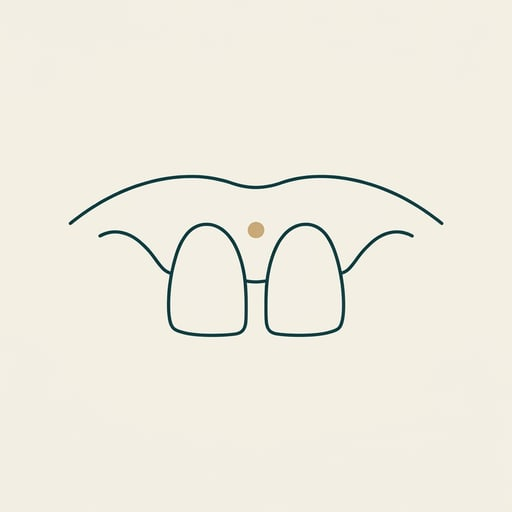
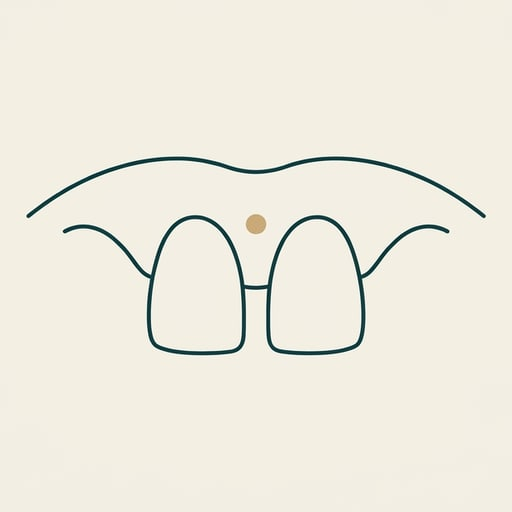
Treatments: larger card illustrations (96px desktop, 56px phone), tighter crop, blended into the card

diff --git a/src/components/TreatmentPage.tsx b/src/components/TreatmentPage.tsx
@@ -304,11 +304,11 @@ export default function TreatmentPage({
           {candidates.items.map((c, i) => (
             <li
               key={c.t}
-              className="glass-card grid grid-cols-[36px_minmax(0,1fr)] gap-x-3.5 gap-y-1.5 rounded-2xl p-4 lg:flex lg:flex-col lg:gap-3 lg:rounded-[18px] lg:p-5"
+              className={`glass-card grid ${c.img ? "grid-cols-[56px_minmax(0,1fr)]" : "grid-cols-[36px_minmax(0,1fr)]"} gap-x-3.5 gap-y-1.5 rounded-2xl p-4 lg:flex lg:flex-col lg:gap-3 lg:rounded-[18px] lg:p-5`}
             >
               {c.img ? (
-                <span aria-hidden="true" className="block h-9 w-9 overflow-hidden rounded-xl lg:h-16 lg:w-16">
-                  <Img src={c.img} alt="" sizes="64px" className="block h-full w-full object-cover" />
+                <span aria-hidden="true" className="block h-14 w-14 overflow-hidden rounded-xl lg:-mt-1 lg:h-24 lg:w-24">
+                  <Img src={c.img} alt="" sizes="96px" className="block h-full w-full object-cover mix-blend-multiply" />
                 </span>
               ) : (
                 <span
